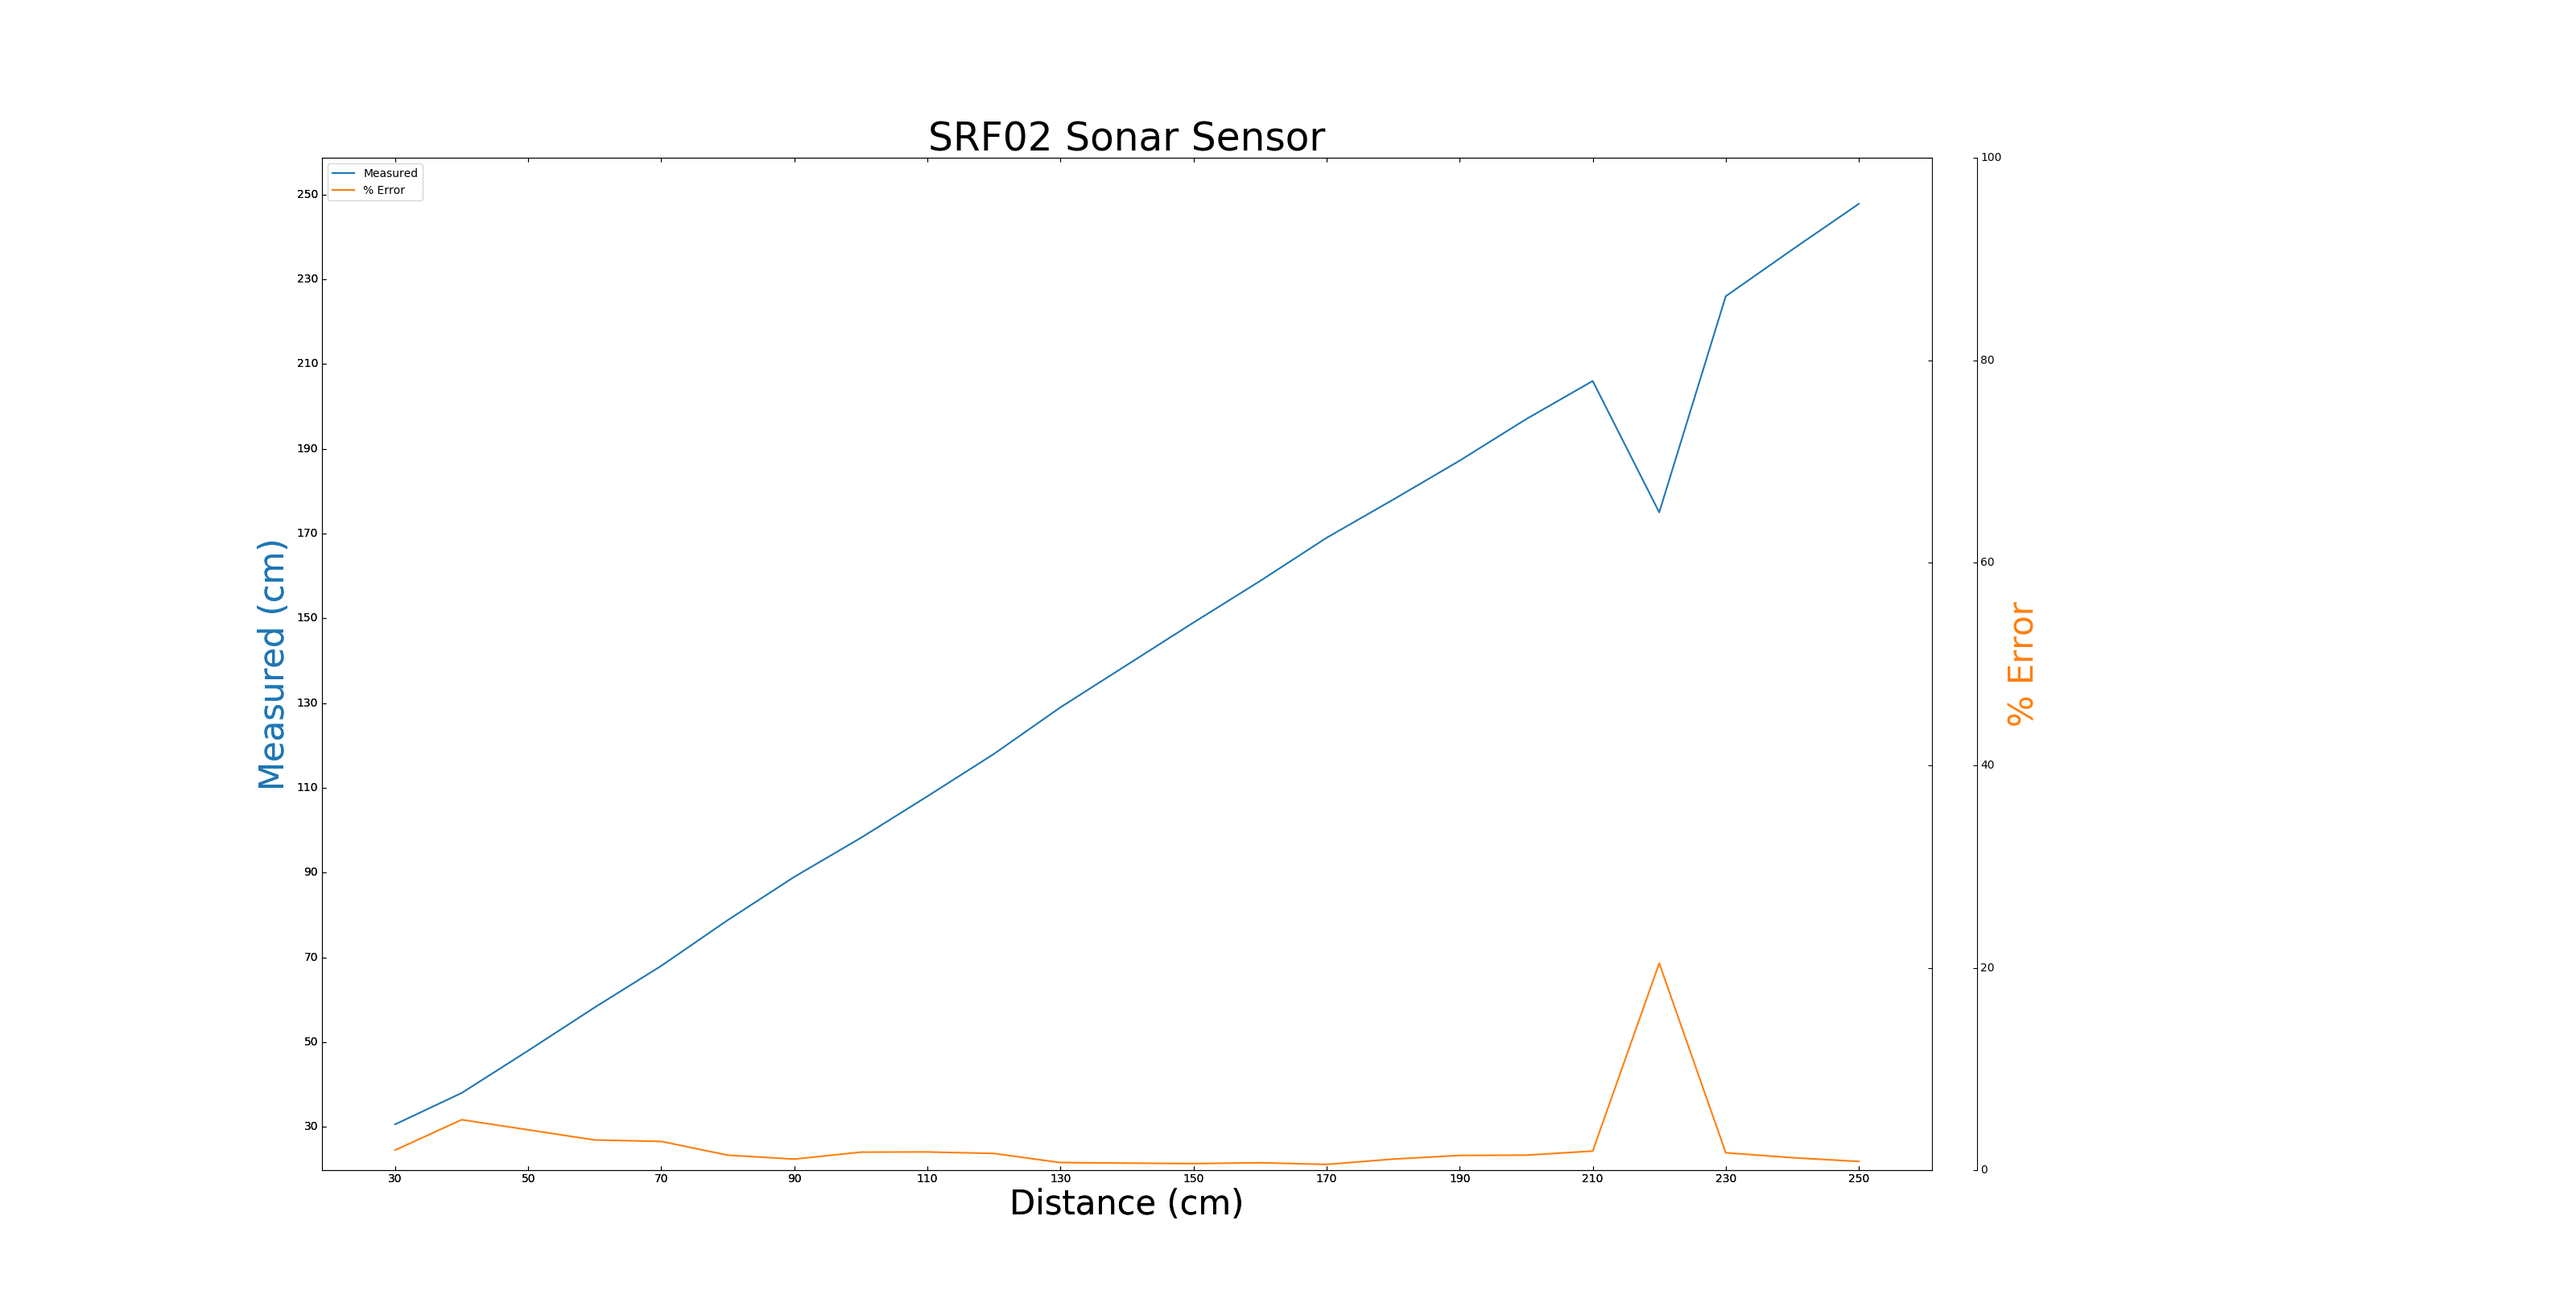
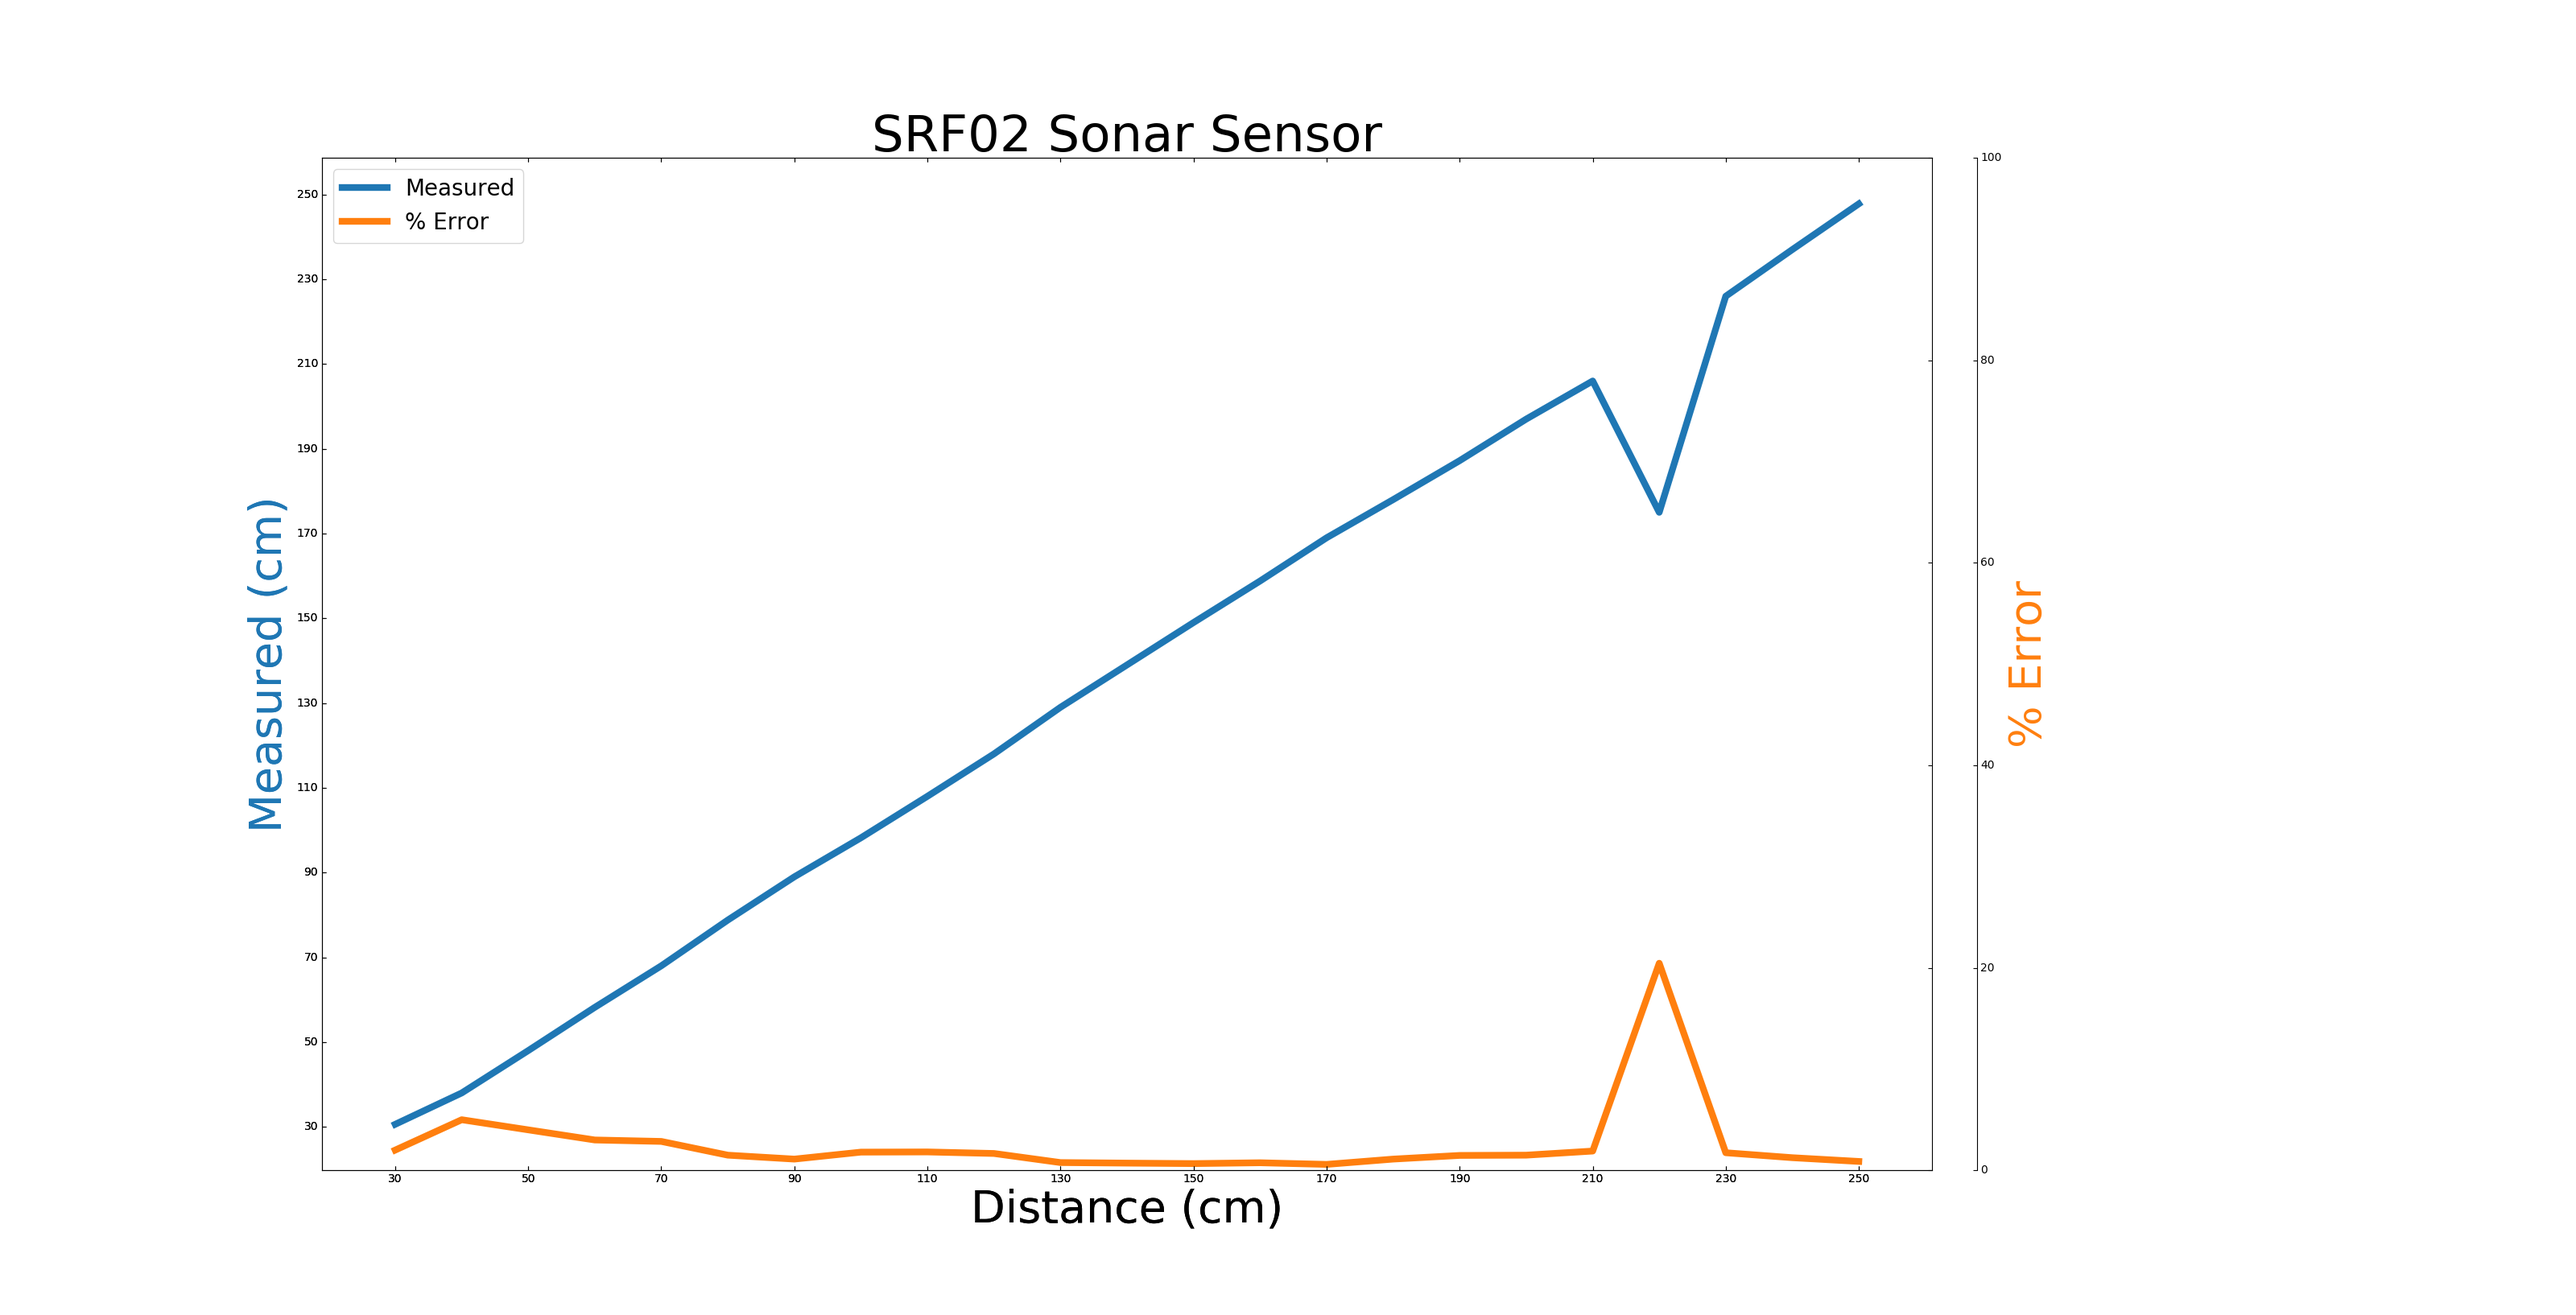
increase font size and line width

diff --git a/plots/sonar_plot.py b/plots/sonar_plot.py
@@ -6,7 +6,7 @@ import numpy as np
 sonar = host_subplot(111, axes_class=AA.Axes)
 plt.subplots_adjust(right=0.75)
 
-plt.rcParams.update({'axes.titlesize': 35})
+plt.rcParams.update({'axes.titlesize': 45})
 
 sonar.set(title="SRF02 Sonar Sensor")
 
@@ -27,20 +27,20 @@ sonar_cm = np.arange(30, 260, 10)
 sonar_mea = np.array([30.6,38,48,58.2,68,78.8,89,98.2,108,118,129,139,149,158.8,169,178,187.2,197,206,175,226,237,247.8])
 sonar_err = np.array([2,5,4,3,2.85714285714286,1.5,1.11111111111111,1.8,1.81818181818182,1.66666666666667,0.769230769230769,0.714285714285714,0.666666666666667,0.749999999999993,0.588235294117647,1.11111111111111,1.47368421052632,1.5,1.90476190476191,20.4545454545455,1.73913043478261,1.25,0.879999999999995])
 
-p1, = sonar.plot(sonar_cm, sonar_mea, label="Measured")
-p2, = par2.plot(sonar_cm, sonar_err, label="% Error")
+p1, = sonar.plot(sonar_cm, sonar_mea, label="Measured", linewidth=6)
+p2, = par2.plot(sonar_cm, sonar_err, label="% Error", linewidth=6)
 plt.xticks(np.arange(min(sonar_cm), max(sonar_cm) + 1, 20))
 plt.yticks(np.arange(30, 260, 20))
 
 par2.set_ylim(0, 100)
 
-sonar.legend(loc=2)
+sonar.legend(loc=2, fontsize=20)
 
 sonar.axis["left"].label.set_color(p1.get_color())
-sonar.axis["left"].label.set_size(30)
-sonar.axis["bottom"].label.set_size(30)
+sonar.axis["left"].label.set_size(40)
+sonar.axis["bottom"].label.set_size(40)
 par2.axis["right"].label.set_color(p2.get_color())
-par2.axis["right"].label.set_size(30)
+par2.axis["right"].label.set_size(40)
 
 plt.draw()
 plt.show()

diff --git a/plots/ir_plot.py b/plots/ir_plot.py
@@ -6,7 +6,7 @@ import numpy as np
 ir = host_subplot(111, axes_class=AA.Axes)
 plt.subplots_adjust(right=0.75)
 
-plt.rcParams.update({'axes.titlesize': 35})
+plt.rcParams.update({'axes.titlesize': 45})
 
 ir.set(title="VL53L0X IR Laser TOF Sensor")
 
@@ -27,20 +27,20 @@ ir_mm = np.arange(20, 240, 10)
 ir_mea = np.array([11.8,18.2,57.6,86,91.2,106.6,92.6,127,160.4,147,157.4,181.6,180.8,191.4,184.8,213,229,225.4,239,246.4,260.2,262])
 ir_err = np.array([41,39.3333333333333,44,72,52,52.2857142857143,15.75,41.1111111111111,60.4,33.6363636363636,31.1666666666667,39.6923076923077,29.1428571428572,27.6,15.5,25.2941176470588,27.2222222222222,18.6315789473684,19.5,17.3333333333333,18.2727272727273,13.9130434782609])
 
-p1, = ir.plot(ir_mm, ir_mea, label="Measured")
-p2, = par2.plot(ir_mm, ir_err, label="% Error")
+p1, = ir.plot(ir_mm, ir_mea, label="Measured", linewidth=6)
+p2, = par2.plot(ir_mm, ir_err, label="% Error", linewidth=6)
 plt.xticks(np.arange(min(ir_mm), max(ir_mm) + 1, 10))
 plt.yticks(np.arange(10, 270, 10))
 
 par2.set_ylim(0, 100)
 
-ir.legend(loc=2)
+ir.legend(loc=2, fontsize=20)
 
 ir.axis["left"].label.set_color(p1.get_color())
-ir.axis["left"].label.set_size(30)
-ir.axis["bottom"].label.set_size(30)
+ir.axis["left"].label.set_size(40)
+ir.axis["bottom"].label.set_size(40)
 par2.axis["right"].label.set_color(p2.get_color())
-par2.axis["right"].label.set_size(30)
+par2.axis["right"].label.set_size(40)
 
 plt.draw()
 plt.show()

diff --git a/plots/fsr_plot.py b/plots/fsr_plot.py
@@ -10,14 +10,14 @@ fsr_x = np.array([0,0.0556227,0.1112454,0.1668681,0.2224908,0.2781135,0.3337362,
 # Note that using plt.subplots below is equivalent to using
 # fig = plt.figure() and then ax = fig.add_subplot(111)
 fig, ax = plt.subplots()
-ax.plot(fsr_x, fsr_mea)
+ax.plot(fsr_x, fsr_mea, linewidth=6)
 
-ax.set(xlabel='Applied Force (N)', ylabel='Measured Voltage',
+ax.set(xlabel='Applied Force (N)', ylabel='Measured Voltage (V)',
        title='FSR Sensitivity')
 
-ax.xaxis.label.set_size(30)
-ax.yaxis.label.set_size(30)
-ax.title.set_size(35)
+ax.xaxis.label.set_size(40)
+ax.yaxis.label.set_size(40)
+ax.title.set_size(45)
 
 ax.grid()
 

diff --git a/plots/temp_plot.py b/plots/temp_plot.py
@@ -11,15 +11,15 @@ time = np.arange(0, 618, 2)
 # Note that using plt.subplots below is equivalent to using
 # fig = plt.figure() and then ax = fig.add_subplot(111)
 fig, ax = plt.subplots()
-ax.plot(time, temp_mea_cold)
-ax.plot(time, temp_mea_hot)
+ax.plot(time, temp_mea_cold, linewidth=6)
+ax.plot(time, temp_mea_hot, linewidth=6)
 
 ax.set(xlabel='Elapsed Time (s)', ylabel='Measured Temperature (C)',
        title='MCP9808 Temperature Sensor Recovery')
 
-ax.xaxis.label.set_size(30)
-ax.yaxis.label.set_size(30)
-ax.title.set_size(35)
+ax.xaxis.label.set_size(40)
+ax.yaxis.label.set_size(40)
+ax.title.set_size(45)
 
 ax.grid()
 

diff --git a/plots/bvr_resp.py b/plots/bvr_resp.py
@@ -4,7 +4,7 @@ import matplotlib.pyplot as plt
  
 objects = ('Pat on back', 'Sonar via IoT', 'Temperature via IoT', 'TTS via IoT', 'Shake Head via IoT', 'Hugging')
 y_pos = np.arange(len(objects))
-timings = [1.7, 0.3, 0.5, 4.2, 1.9, 4.2]
+timings = [0.001, 1.4, 0.5, 2,4, 0.3, 0.001]
  
 plt.bar(y_pos, timings, align='center', alpha=0.5)
 plt.xticks(y_pos, objects)
